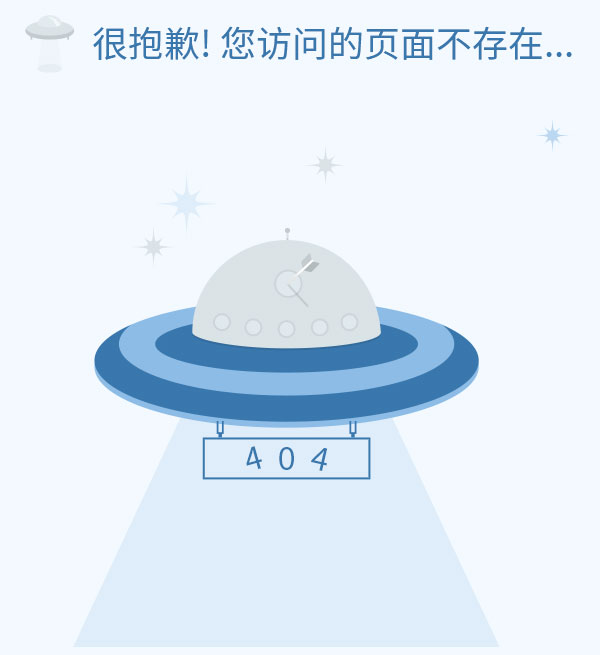
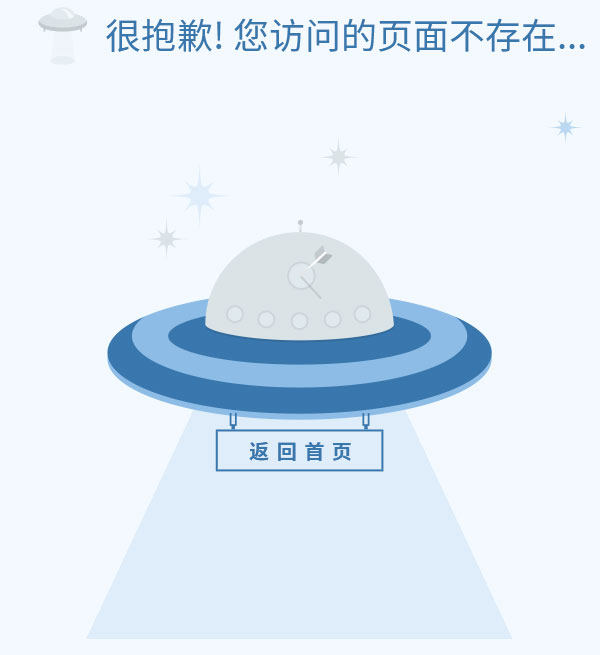
编辑器响应式；404fix；新建网站选中效果调整；编辑器brand增加返回首页和跳转到mod；大赛简介模块fix

diff --git a/www/wiki/assets/css/editor.css b/www/wiki/assets/css/editor.css
@@ -148,7 +148,7 @@ body,
 
 .btn-toolbar{
     margin: 0;
-    padding: 15px 60px;
+    padding: 5px 60px 15px;
 }
 
 .nopadding{
@@ -219,6 +219,7 @@ body,
 }
 .wiki-toolbar .btn-group{
     margin-left: 10px;
+    margin-top: 10px;
 }
 .wiki-toolbar .btn-group:first-child{
     margin-left: 0;
@@ -278,13 +279,13 @@ select.resize-view {
 .treeview-container{
     max-height: 100%;
     overflow-y: auto;
-    width: 16%;
+    width: 300px;
     position: absolute;
     left:0;
     z-index: 1;
 }
 .code-view{
-    padding-left: 16%;
+    padding-left: 300px;
 }
 .code-view.nofile{
     padding-left: 0;
@@ -297,15 +298,20 @@ select.resize-view {
     display: none;
 }
 .toolbar-page-file.active{
-    margin-right: 177px;
+    margin-right: 173px;
+}
+
+#codeToolbar{
+    padding-left:190px;
+}
+.brand-btn-group{
+    position: absolute;
+    left: 35px;
 }
 #srcview{
     padding-right: 40px;
 }
 @media (max-width: 1200px) {
-    .wiki-toolbar{
-        padding:15px 0;
-    }
     .wiki-toolbar .btn-group:first-child{
         margin-left: 0;
     }
@@ -326,10 +332,34 @@ select.resize-view {
         width:300px;
         padding:6.5px 12px;
     }
+    .toolbar-page-file.active{
+        margin-right: 80px;
+    }
+    .treeview-container{
+        width: 150px;
+    }
+    .code-view{
+        padding-left: 150px;
+    }
+    .btn-toolbar{
+        padding:5px 15px 10px;
+    }
 }
-@media(min-width: 1200px) and (max-width:1301px){
-    .wiki-toolbar{
-        padding:15px 29px;
+@media(min-width: 1200px) and (max-width:1350px){
+    .btn-toolbar{
+        padding:5px 15px 10px;
+    }
+    .toolbar-page-file.active{
+        margin-right: 110px;
+    }
+    .code-view{
+        padding-left: 192px;
+    }
+    .treeview-container{
+        width: 205px;
+    }
+    .wiki-toolbar .wiki-btn{
+        padding: 7px 8px;
     }
 }
 @media(min-width: 1302px){
@@ -340,5 +370,18 @@ select.resize-view {
 @media(max-width:1370px){
     input.btn-link{
         width:330px;
+    }
+}
+@media(min-width: 768px) and (max-width: 992px){
+    .toolbar-page-file.active{
+        margin-right:0;
+    }
+    .wiki-toolbar .btn-link{
+        width: 155px;
+    }
+}
+@media(min-width: 1630px) and (max-width: 1900px){
+    .wiki-toolbar .wiki-btn {
+        padding: 7px 9px;
     }
 }

diff --git a/www/wiki/html/newWebsite.html b/www/wiki/html/newWebsite.html
@@ -98,7 +98,7 @@
         background-color: #F9F9F9;
         box-shadow: 0 1px 3px 0 rgba(44,62,80,.35);
         padding:0;
-        border: 1px solid transparent;
+        border: 2px solid transparent;
         border-top: none;
     }
     .website-model .btn-group .btn-lg{
@@ -107,12 +107,18 @@
         margin:0;
     }
     .website-model .active>img{
-        border: 1px solid #3977AD;
+        border: 2px solid #3977AD;
         border-bottom:none;
+        -webkit-box-shadow: 0 5px 14px 0 rgba(44,62,80,.35);
+        -moz-box-shadow: 0 5px 14px 0 rgba(44,62,80,.35);
+        box-shadow: 0 5px 14px 0 rgba(44,62,80,.35);
     }
     .website-model .active>.btn-group{
-        border: 1px solid #3977AD;
+        border: 2px solid #3977AD;
         border-top: none;
+        -webkit-box-shadow: 0 5px 14px 0 rgba(44,62,80,.35);
+        -moz-box-shadow: 0 5px 14px 0 rgba(44,62,80,.35);
+        box-shadow: 0 5px 14px 0 rgba(44,62,80,.35);
     }
     .website-model .btn-group .btn-lg.active{
         background-color: #eee;
@@ -124,7 +130,7 @@
         height:180px;
         object-fit: cover;
         cursor: pointer;
-        border: 1px solid transparent;
+        border: 2px solid transparent;
         border-bottom: none;
     }
     .model-select .nav-tabs{

diff --git a/www/wiki/html/wikiEditor.html b/www/wiki/html/wikiEditor.html
@@ -4,7 +4,7 @@
             <div id="wikiEditor" ng-controller="wikiEditorController">
                 <div id="toolbarview" class="well well-sm nopadding wiki-toolbar" style="z-index:99;">
                     <div id="codeToolbar" class="btn-toolbar" role="toolbar" ng-show="!full">
-                        <div class="btn-group">
+                        <div class="btn-group brand-btn-group">
                             <div class="dropdown toolbar-brand">
                                 <a class="dropdown-toggle" data-toggle="dropdown" role="button" aria-haspopup="true" aria-expanded="false">
                                     <img ng-src="{{imgsPath+'icon/logo.svg'}}" alt="">

diff --git a/www/wiki/js/app/controller/wikiEditorController.js b/www/wiki/js/app/controller/wikiEditorController.js
@@ -2199,6 +2199,14 @@ define([
                     });
                 });
 
+                $scope.goHomePage = function () {
+                    util.go("home");
+                };
+
+                $scope.goModPackagePage = function () {
+                    util.go("mod/packages",true);
+                };
+
                 editor.on("paste", function (editor, e) {
                     if (!(e.clipboardData && e.clipboardData.items)) {
                         alert("该浏览器不支持操作");

diff --git a/www/wiki/html/notfound.html b/www/wiki/html/notfound.html
@@ -6,7 +6,12 @@
         text-align: center;
         padding: 60px 0;
     }
+    .notfound img{
+        width: 30%;
+        height: auto;
+        cursor: pointer;
+    }
 </style>
-<div ng-controller="notfoundController" class="notfound">
+<div ng-controller="notfoundController" class="notfound" ng-click="goHome()">
     <img ng-src="{{imgsPath+'wiki_404.jpg'}}" alt="">
 </div>

diff --git a/www/wiki/js/app/controller/notfoundController.js b/www/wiki/js/app/controller/notfoundController.js
@@ -9,6 +9,10 @@ define([
     'text!html/notfound.html'
 ], function (app, util, storage, htmlContent) {
     app.controller('notfoundController', ['$scope', 'Account','Message', function ($scope, Account, Message) {
+        $scope.goHome=function () {
+            util.go("home");
+        };
+        
         function init() {
 
         }

diff --git a/www/wiki/js/mod/wiki/html/title.html b/www/wiki/js/mod/wiki/html/title.html
@@ -15,6 +15,10 @@
         bottom: 0;
         left: 0;
     }
+    .title1 .content p{
+        font-size: 16px;
+        color: #666;
+    }
 </style>
 <div ng-controller="titleController">
     <div class="title1 container" ng-show="modParams.moduleKind=='title1'">
